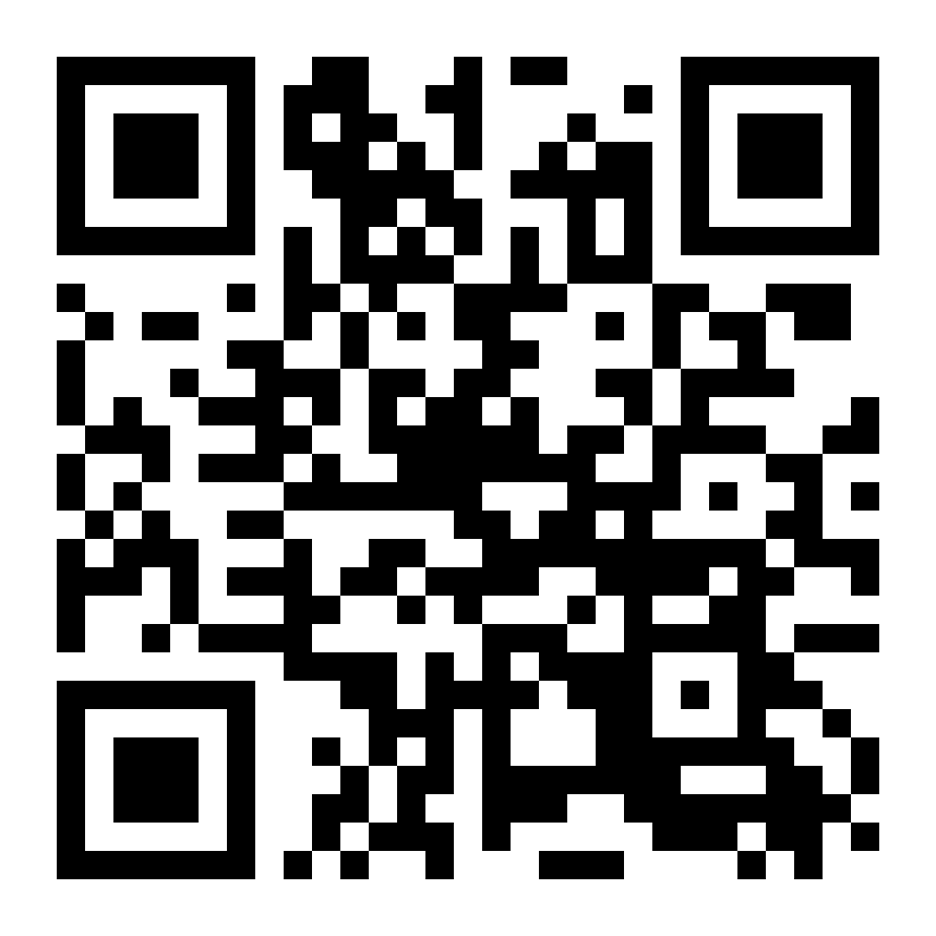
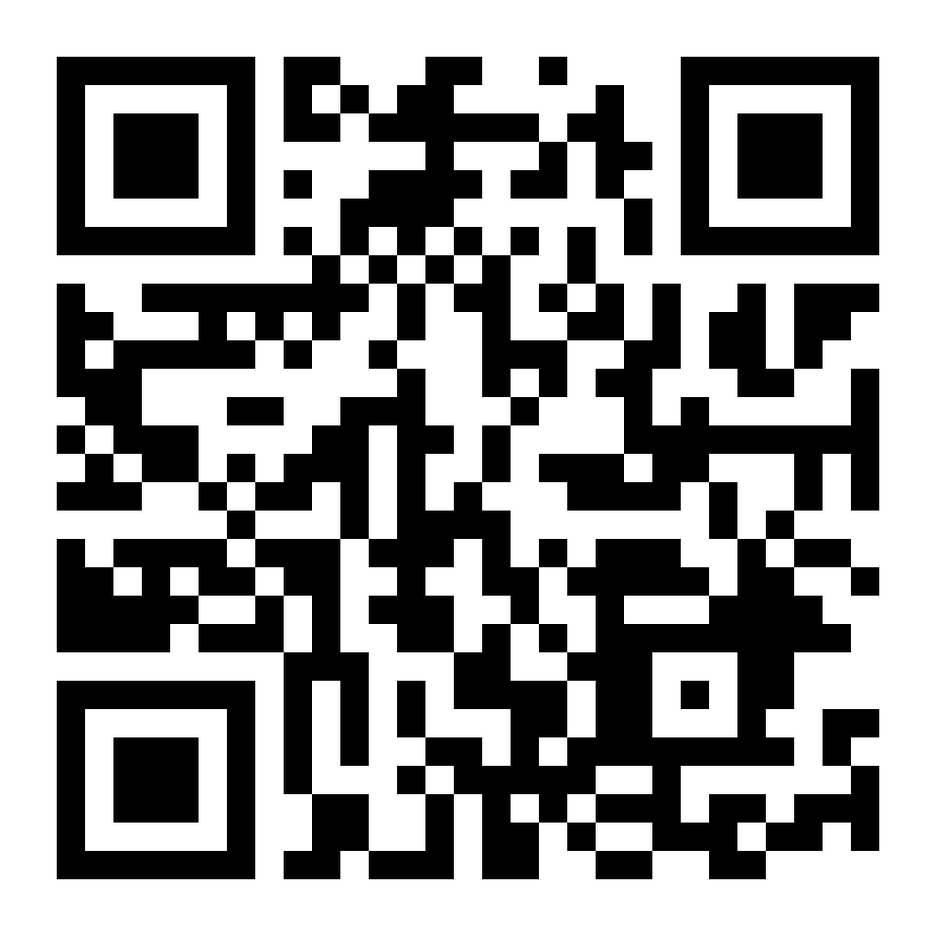
Свой адрес на GitVerse, QR, Агрокласс, приём памяти #perenos (промт 18, PR 1) (#10)
- index.html и new.html: canonical, og:url, og:image, ссылка поделиться, подпись под QR
  и установка на Android -> https://centrspektr.gitverse.site/spektr/
- qr-spektr.png: новый QR на новый адрес (тот же размер 936x936, версия 3)
- Агрокласс -> https://centrspektr.gitverse.site/agroklass/
- perenos.js: принимает ключи spectr_*, irtysh_*, spk_*, skin из #perenos (как в Агроклассе)

Claude-Session: https://claude.ai/code/session_016E3naY89jYSpBVqpLAincm

diff --git a/index.html b/index.html
@@ -5,14 +5,14 @@
 <meta name="viewport" content="width=device-width, initial-scale=1.0, viewport-fit=cover">
 <title>СПЕКТР - кружки и расписание</title>
 <meta name="description" content="СПЕКТР - кружки ресурсного центра в Иртышском поселении: расписание занятий, запись в кружки, дашборды клуба БПЛА "Взлёт", Агрокласса и ИИ-студии.">
-<link rel="canonical" href="https://centrspektr.github.io/spektr/">
+<link rel="canonical" href="https://centrspektr.gitverse.site/spektr/">
 <meta property="og:type" content="website">
 <meta property="og:site_name" content="СПЕКТР">
 <meta property="og:locale" content="ru_RU">
-<meta property="og:url" content="https://centrspektr.github.io/spektr/">
+<meta property="og:url" content="https://centrspektr.gitverse.site/spektr/">
 <meta property="og:title" content="СПЕКТР - кружки и расписание занятий">
 <meta property="og:description" content="Расписание, запись в кружки, дроны, музыка, ИИ, ложкари, рисование и скульптура. Иртышское поселение.">
-<meta property="og:image" content="https://centrspektr.github.io/spektr/og.png">
+<meta property="og:image" content="https://centrspektr.gitverse.site/spektr/og.png">
 <meta property="og:image:width" content="1200">
 <meta property="og:image:height" content="630">
 <meta property="og:image:alt" content="СПЕКТР - ресурсный центр">
@@ -25,6 +25,7 @@
 <meta name="apple-mobile-web-app-capable" content="yes">
 <meta name="apple-mobile-web-app-title" content="Спектр">
 <link rel="preload" as="image" href="logo.webp">
+<script src="perenos.js"></script>
 <script>/* вход на портал всегда в стиле Космос; дальше в этом визите стиль можно менять, клубы его подхватывают */
 try{if(!sessionStorage.getItem('spectr_in')){sessionStorage.setItem('spectr_in','1');localStorage.setItem('spectr_skin','space')}}catch(e){}</script>
 <script src="fx.js"></script>
@@ -822,7 +823,7 @@ window.skinReset=function(){ST=null;BL=null;shoot=null};
 <script src="SplitText.min.js"></script>
 <script>
 const HUB='spectr', API='https://functions.yandexcloud.net/d4e4vhndceg7scc0mh3b';
-const LINKS={vzlet:'https://centrspektr.github.io/vzlet/', agro:'https://centrspektr.github.io/agroklass/', site:'https://centrspektr.fun', zan:'https://irtysh-zanyatiya.github.io/'};
+const LINKS={vzlet:'https://centrspektr.github.io/vzlet/', agro:'https://centrspektr.gitverse.site/agroklass/', site:'https://centrspektr.fun', zan:'https://irtysh-zanyatiya.github.io/'};
 const SOCIAL={vkVideo:'https://vkvideo.ru/@club237916033', vkVzlet:'https://vk.ru/klubbplavzlet', max:'https://max.ru/join/vXgGYXzwh0p9R1_CUppOus_9Msui9Annkj4HHpaBHVU',
  maxVzlet:'https://max.ru/join/v0ZfpDIihnow9hdwq3vpjm0KiPFW7A0WDfkNlIt9JVs', maxStudio:'https://max.ru/join/x7bqQ0ZGLEmvUJso1aof3ylEJv5K-1x_4cbCWCHaf0A',
  maxZad:'https://max.ru/join/kbsZa2PtRYEwK3ZyDq2WHbf9LNJpv5Wayfh5aRuNz6Y', maxLad:'https://max.ru/join/ssNE1a7VgnRlJd58qOwncUx_051PJLlzmEa6thFGnss', maxOkol:'https://max.ru/join/uw3jH6J-8shUP7GjDbO5fN5dxa_JRXdWENsB-3H2Bhc',
@@ -1488,7 +1489,7 @@ function showVis(n,anim){const el=$('#visC');n=+n;if(!el||!n)return;const i=el.q
   <h3>Поделиться <button class="ibtn sm" id="shX" aria-label="Закрыть">✕</button></h3>
   <p>Наведи камеру телефона на код - откроется СПЕКТР. Оттуда можно перейти в любой кружок.</p>
   <img class="shq" src="qr-spektr.png" alt="QR-код ссылки на СПЕКТР" width="260" height="260">
-  <div class="shu" id="shU">centrspektr.github.io/spektr</div>
+  <div class="shu" id="shU">centrspektr.gitverse.site/spektr</div>
   <div class="shg"><button class="ibtn pri" id="shShare">📤 Поделиться</button><button class="ibtn" id="shCopy">📋 Скопировать</button></div>
 </div></div>
 <div class="shm" id="inM" role="dialog" aria-modal="true" aria-label="Установить СПЕКТР на телефон"><div class="shp">
@@ -1498,7 +1499,7 @@ function showVis(n,anim){const el=$('#visC');n=+n;if(!el||!n)return;const i=el.q
 <div class="shbar" id="shBar" role="dialog" aria-label="Установить СПЕКТР"><img src="icon-192.png" alt=""><div id="shBarT"><b>СПЕКТР на экран телефона</b>Открывается одним касанием, как приложение</div><button class="ibtn pri sm" id="shBarGo">Установить</button><button class="ibtn sm" id="shBarX" aria-label="Не сейчас">✕</button></div>
 <script>
 (function(){
-  var URL0='https://centrspektr.github.io/spektr/', $=function(i){return document.getElementById(i)};
+  var URL0='https://centrspektr.gitverse.site/spektr/', $=function(i){return document.getElementById(i)};
   var M=$('shM'), IM=$('inM'), dp=null, st={get:function(k){try{return localStorage.getItem(k)}catch(e){return null}},set:function(k,v){try{localStorage.setItem(k,v)}catch(e){}}};
   var ua=navigator.userAgent, IOS=/iPhone|iPad|iPod/.test(ua)||(navigator.platform==='MacIntel'&&navigator.maxTouchPoints>1), MOB=/Android|iPhone|iPad|iPod/i.test(ua)||IOS;
   var APP=matchMedia('(display-mode: standalone)').matches||navigator.standalone===true;
@@ -1510,7 +1511,7 @@ function showVis(n,anim){const el=$('#visC');n=+n;if(!el||!n)return;const i=el.q
   var INAPP=/; wv\)|VKAndroidApp|VKClient|vkontakte|Telegram|Instagram|FBAN|FBAV|OdnoklassnikiApp|OKApp|ru\.oneme|OneMe|MAXApp|\bMAX\//i.test(ua)||(IOS&&!/Safari\//.test(ua)&&!/CriOS|FxiOS|YaBrowser|EdgiOS/.test(ua));
   var BR=/YaBrowser|YaApp/.test(ua)?'ya':/SamsungBrowser/.test(ua)?'samsung':/Firefox|FxiOS/.test(ua)?'ff':/OPR\/|Opera/.test(ua)?'opera':/EdgA|EdgiOS/.test(ua)?'edge':/MiuiBrowser|HuaweiBrowser|HeyTapBrowser/.test(ua)?'other':'chrome';
   var YA=BR==='ya'&&AND;
-  function intent(pkg){return 'intent://centrspektr.github.io/spektr/?install#Intent;scheme=https;package='+pkg+';S.browser_fallback_url='+encodeURIComponent(URL0+'?install')+';end'}
+  function intent(pkg){return 'intent://centrspektr.gitverse.site/spektr/?install#Intent;scheme=https;package='+pkg+';S.browser_fallback_url='+encodeURIComponent(URL0+'?install')+';end'}
   /* окно установки: один короткий блок под браузер */
   var D='<p class="ins-t">';
   function S(n,b,t){return '<div class="stp"><i>'+n+'</i><div><b>'+b+'</b>'+(t||'')+'</div></div>'}

diff --git a/new.html b/new.html
@@ -5,14 +5,14 @@
 <meta name="viewport" content="width=device-width, initial-scale=1.0, viewport-fit=cover">
 <title>СПЕКТР - кружки и расписание</title>
 <meta name="description" content="СПЕКТР - кружки ресурсного центра в Иртышском поселении: расписание занятий, запись в кружки, дашборды клуба БПЛА "Взлёт", Агрокласса и ИИ-студии.">
-<link rel="canonical" href="https://centrspektr.github.io/spektr/">
+<link rel="canonical" href="https://centrspektr.gitverse.site/spektr/">
 <meta property="og:type" content="website">
 <meta property="og:site_name" content="СПЕКТР">
 <meta property="og:locale" content="ru_RU">
-<meta property="og:url" content="https://centrspektr.github.io/spektr/">
+<meta property="og:url" content="https://centrspektr.gitverse.site/spektr/">
 <meta property="og:title" content="СПЕКТР - кружки и расписание занятий">
 <meta property="og:description" content="Расписание, запись в кружки, дроны, музыка, ИИ, ложкари, рисование и скульптура. Иртышское поселение.">
-<meta property="og:image" content="https://centrspektr.github.io/spektr/og.png">
+<meta property="og:image" content="https://centrspektr.gitverse.site/spektr/og.png">
 <meta property="og:image:width" content="1200">
 <meta property="og:image:height" content="630">
 <meta property="og:image:alt" content="СПЕКТР - ресурсный центр">
@@ -25,6 +25,7 @@
 <meta name="apple-mobile-web-app-capable" content="yes">
 <meta name="apple-mobile-web-app-title" content="Спектр">
 <link rel="preload" as="image" href="logo.webp">
+<script src="perenos.js"></script>
 <script>/* вход на портал всегда в стиле Космос; дальше в этом визите стиль можно менять, клубы его подхватывают */
 try{if(!sessionStorage.getItem('spectr_in')){sessionStorage.setItem('spectr_in','1');localStorage.setItem('spectr_skin','space')}}catch(e){}</script>
 <script src="fx.js"></script>
@@ -822,7 +823,7 @@ window.skinReset=function(){ST=null;BL=null;shoot=null};
 <script src="SplitText.min.js"></script>
 <script>
 const HUB='spectr', API='https://functions.yandexcloud.net/d4e4vhndceg7scc0mh3b';
-const LINKS={vzlet:'https://centrspektr.github.io/vzlet/', agro:'https://centrspektr.github.io/agroklass/', site:'https://centrspektr.fun', zan:'https://irtysh-zanyatiya.github.io/'};
+const LINKS={vzlet:'https://centrspektr.github.io/vzlet/', agro:'https://centrspektr.gitverse.site/agroklass/', site:'https://centrspektr.fun', zan:'https://irtysh-zanyatiya.github.io/'};
 const SOCIAL={vkVideo:'https://vkvideo.ru/@club237916033', vkVzlet:'https://vk.ru/klubbplavzlet', max:'https://max.ru/join/vXgGYXzwh0p9R1_CUppOus_9Msui9Annkj4HHpaBHVU',
  maxVzlet:'https://max.ru/join/v0ZfpDIihnow9hdwq3vpjm0KiPFW7A0WDfkNlIt9JVs', maxStudio:'https://max.ru/join/x7bqQ0ZGLEmvUJso1aof3ylEJv5K-1x_4cbCWCHaf0A',
  maxZad:'https://max.ru/join/kbsZa2PtRYEwK3ZyDq2WHbf9LNJpv5Wayfh5aRuNz6Y', maxLad:'https://max.ru/join/ssNE1a7VgnRlJd58qOwncUx_051PJLlzmEa6thFGnss', maxOkol:'https://max.ru/join/uw3jH6J-8shUP7GjDbO5fN5dxa_JRXdWENsB-3H2Bhc',
@@ -1488,7 +1489,7 @@ function showVis(n,anim){const el=$('#visC');n=+n;if(!el||!n)return;const i=el.q
   <h3>Поделиться <button class="ibtn sm" id="shX" aria-label="Закрыть">✕</button></h3>
   <p>Наведи камеру телефона на код - откроется СПЕКТР. Оттуда можно перейти в любой кружок.</p>
   <img class="shq" src="qr-spektr.png" alt="QR-код ссылки на СПЕКТР" width="260" height="260">
-  <div class="shu" id="shU">centrspektr.github.io/spektr</div>
+  <div class="shu" id="shU">centrspektr.gitverse.site/spektr</div>
   <div class="shg"><button class="ibtn pri" id="shShare">📤 Поделиться</button><button class="ibtn" id="shCopy">📋 Скопировать</button></div>
 </div></div>
 <div class="shm" id="inM" role="dialog" aria-modal="true" aria-label="Установить СПЕКТР на телефон"><div class="shp">
@@ -1498,7 +1499,7 @@ function showVis(n,anim){const el=$('#visC');n=+n;if(!el||!n)return;const i=el.q
 <div class="shbar" id="shBar" role="dialog" aria-label="Установить СПЕКТР"><img src="icon-192.png" alt=""><div id="shBarT"><b>СПЕКТР на экран телефона</b>Открывается одним касанием, как приложение</div><button class="ibtn pri sm" id="shBarGo">Установить</button><button class="ibtn sm" id="shBarX" aria-label="Не сейчас">✕</button></div>
 <script>
 (function(){
-  var URL0='https://centrspektr.github.io/spektr/', $=function(i){return document.getElementById(i)};
+  var URL0='https://centrspektr.gitverse.site/spektr/', $=function(i){return document.getElementById(i)};
   var M=$('shM'), IM=$('inM'), dp=null, st={get:function(k){try{return localStorage.getItem(k)}catch(e){return null}},set:function(k,v){try{localStorage.setItem(k,v)}catch(e){}}};
   var ua=navigator.userAgent, IOS=/iPhone|iPad|iPod/.test(ua)||(navigator.platform==='MacIntel'&&navigator.maxTouchPoints>1), MOB=/Android|iPhone|iPad|iPod/i.test(ua)||IOS;
   var APP=matchMedia('(display-mode: standalone)').matches||navigator.standalone===true;
@@ -1510,7 +1511,7 @@ function showVis(n,anim){const el=$('#visC');n=+n;if(!el||!n)return;const i=el.q
   var INAPP=/; wv\)|VKAndroidApp|VKClient|vkontakte|Telegram|Instagram|FBAN|FBAV|OdnoklassnikiApp|OKApp|ru\.oneme|OneMe|MAXApp|\bMAX\//i.test(ua)||(IOS&&!/Safari\//.test(ua)&&!/CriOS|FxiOS|YaBrowser|EdgiOS/.test(ua));
   var BR=/YaBrowser|YaApp/.test(ua)?'ya':/SamsungBrowser/.test(ua)?'samsung':/Firefox|FxiOS/.test(ua)?'ff':/OPR\/|Opera/.test(ua)?'opera':/EdgA|EdgiOS/.test(ua)?'edge':/MiuiBrowser|HuaweiBrowser|HeyTapBrowser/.test(ua)?'other':'chrome';
   var YA=BR==='ya'&&AND;
-  function intent(pkg){return 'intent://centrspektr.github.io/spektr/?install#Intent;scheme=https;package='+pkg+';S.browser_fallback_url='+encodeURIComponent(URL0+'?install')+';end'}
+  function intent(pkg){return 'intent://centrspektr.gitverse.site/spektr/?install#Intent;scheme=https;package='+pkg+';S.browser_fallback_url='+encodeURIComponent(URL0+'?install')+';end'}
   /* окно установки: один короткий блок под браузер */
   var D='<p class="ins-t">';
   function S(n,b,t){return '<div class="stp"><i>'+n+'</i><div><b>'+b+'</b>'+(t||'')+'</div></div>'}

diff --git a/perenos.js b/perenos.js
@@ -1,0 +1,24 @@
+/* Дашборд СПЕКТРа: приём памяти браузера со старого адреса (centrspektr.github.io/spektr/).
+   Страница-переход на старом адресе кладёт в адрес #perenos=<base64 от UTF-8 JSON {ключ: значение}>.
+   Здесь записываем в localStorage только ключи spectr_*, irtysh_*, spk_* и skin, которых на новом адресе ещё нет
+   (новое старым не затираем), и убираем #perenos из адреса.
+   Подключать в <head> до остальных скриптов страницы, без defer. */
+(function () {
+  var m = /(?:^#|&)perenos=([^&]*)/.exec(location.hash);
+  if (!m) return;
+  try {
+    var b64 = decodeURIComponent(m[1]).replace(/-/g, '+').replace(/_/g, '/');
+    while (b64.length % 4) b64 += '=';
+    var bin = atob(b64), bytes = new Uint8Array(bin.length);
+    for (var i = 0; i < bin.length; i++) bytes[i] = bin.charCodeAt(i);
+    var data = JSON.parse(new TextDecoder().decode(bytes));
+    if (data && typeof data === 'object') {
+      Object.keys(data).forEach(function (k) {
+        if (!/^(spectr_|irtysh_|spk_|skin$)/.test(k) || typeof data[k] !== 'string') return;
+        try { if (localStorage.getItem(k) === null) localStorage.setItem(k, data[k]); } catch (e) {}
+      });
+    }
+  } catch (e) {}
+  var rest = location.hash.slice(1).split('&').filter(function (p) { return p.indexOf('perenos=') !== 0; }).join('&');
+  try { history.replaceState(null, '', location.pathname + location.search + (rest ? '#' + rest : '')); } catch (e) {}
+})();
